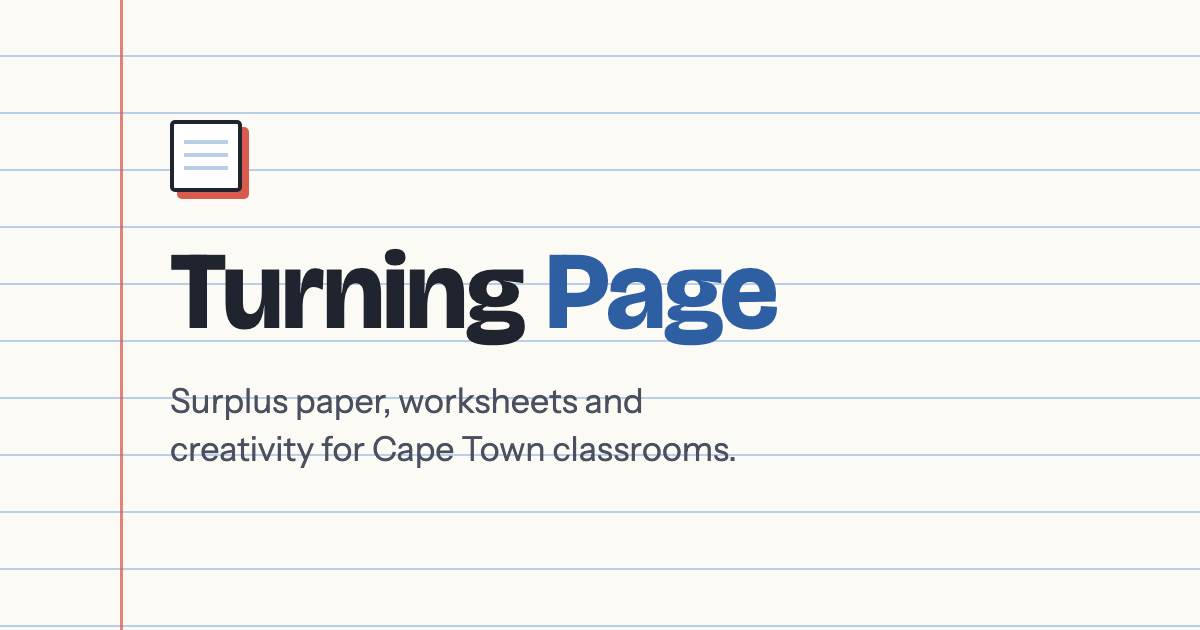
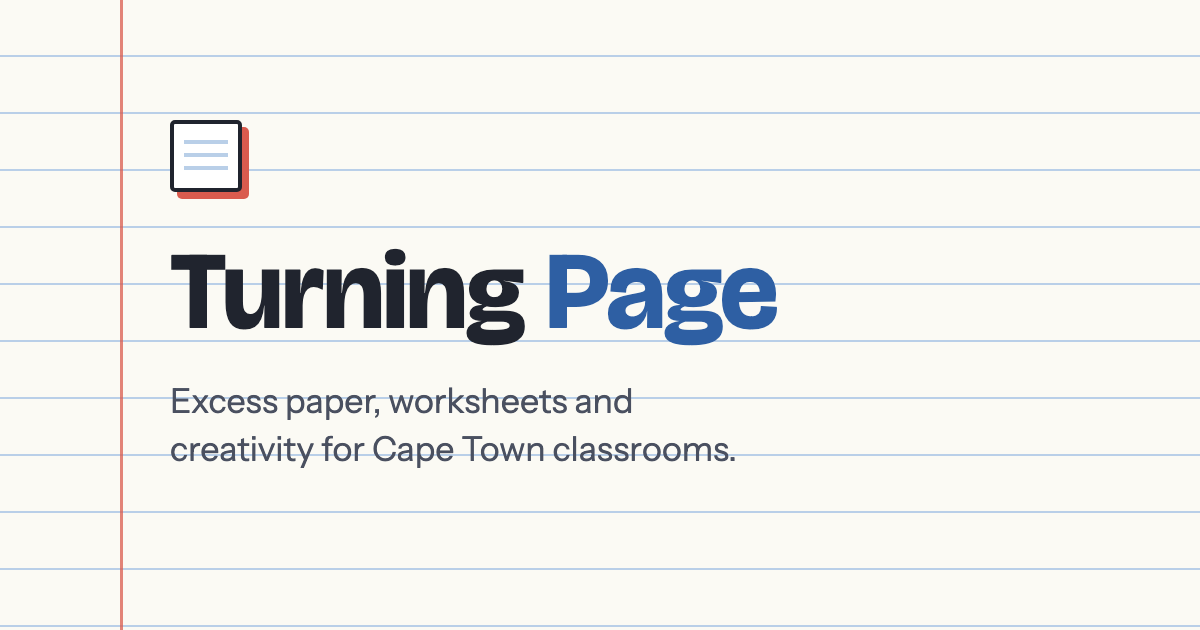
New headshot, humanize copy (remove em dashes), replace 'surplus' with synonyms, tense fixes, partners colon

Changed region(s): [[0.1542, 0.6032, 0.555, 0.6635]]

diff --git a/index.html b/index.html
@@ -4,7 +4,7 @@
 <meta charset="UTF-8">
 <meta name="viewport" content="width=device-width, initial-scale=1.0">
 <title>Turning Page — Paper, worksheets and creativity for Cape Town classrooms</title>
-<meta name="description" content="Student-run Cape Town initiative delivering surplus paper, WorksheetCloud sponsorships and creativity packs to under-resourced schools.">
+<meta name="description" content="Student-run Cape Town initiative delivering spare paper, WorksheetCloud sponsorships and creativity packs to under-resourced schools.">
 <!-- NOTE: replace https://turningpage.co.za with the live domain after deploy — see README -->
 <link rel="canonical" href="https://turningpage.co.za/">
 
@@ -16,14 +16,14 @@
 <meta property="og:type" content="website">
 <meta property="og:site_name" content="Turning Page">
 <meta property="og:title" content="Turning Page — Paper, worksheets and creativity for Cape Town classrooms">
-<meta property="og:description" content="A student-run initiative redirecting clean surplus paper from businesses to under-resourced Cape Town schools, starting with Constantia Primary.">
+<meta property="og:description" content="A student-run initiative redirecting clean excess paper from businesses to under-resourced Cape Town schools, starting with Constantia Primary.">
 <meta property="og:url" content="https://turningpage.co.za/">
 <meta property="og:image" content="https://turningpage.co.za/assets/img/og.png">
 <meta property="og:image:width" content="1200">
 <meta property="og:image:height" content="630">
 <meta name="twitter:card" content="summary_large_image">
 <meta name="twitter:title" content="Turning Page — Paper, worksheets and creativity for Cape Town classrooms">
-<meta name="twitter:description" content="A student-run initiative redirecting clean surplus paper from businesses to under-resourced Cape Town schools, starting with Constantia Primary.">
+<meta name="twitter:description" content="A student-run initiative redirecting clean excess paper from businesses to under-resourced Cape Town schools, starting with Constantia Primary.">
 <meta name="twitter:image" content="https://turningpage.co.za/assets/img/og.png">
 
 <link rel="preload" href="assets/fonts/bricolage-grotesque-latin.woff2" as="font" type="font/woff2" crossorigin>
@@ -33,7 +33,7 @@
   "@context": "https://schema.org",
   "@type": "Organization",
   "name": "Turning Page",
-  "description": "A student-run community initiative delivering surplus paper, WorksheetCloud sponsorships and creativity packs to under-resourced Cape Town schools.",
+  "description": "A student-run community initiative delivering spare paper, WorksheetCloud sponsorships and creativity packs to under-resourced Cape Town schools.",
   "founder": { "@type": "Person", "name": "Carys Morkel" },
   "foundingDate": "2026",
   "areaServed": { "@type": "City", "name": "Cape Town" },
@@ -64,8 +64,8 @@
 <header class="hero" id="top">
   <div class="hero-inner">
     <span class="hero-eyebrow">A student-run initiative · Cape Town</span>
-    <h1>Your surplus paper is a classroom's <em>next lesson</em>.</h1>
-    <p class="lede">We collect clean surplus paper from Cape Town businesses and turn it into more than supplies — bringing paper, worksheets and creativity to under-resourced classrooms, starting with <a href="https://www.constantiaprimary.co.za" target="_blank" rel="noopener">Constantia Primary</a>.</p>
+    <h1>Your excess paper is a classroom's <em>next lesson</em>.</h1>
+    <p class="lede">We collect clean, unused paper from Cape Town businesses and turn it into more than supplies, bringing paper, worksheets and creativity to under-resourced classrooms, starting with <a href="https://www.constantiaprimary.co.za" target="_blank" rel="noopener">Constantia Primary</a>.</p>
     <div class="hero-actions">
       <a class="btn btn-primary" href="#contact">Donate paper</a>
       <a class="btn btn-ghost" href="#story">Read our story</a>
@@ -81,21 +81,21 @@
     <div class="reveal">
       <p class="eyebrow">Our story</p>
       <h2>Two schools, a short distance apart. Two different worlds.</h2>
-      <p>My name is Carys Morkel. I'm 18, in my final year at the American International School of Cape Town, and this project began with a school visit that I haven't been able to stop thinking about.</p>
-      <p>Constantia Primary is a government school just down the road from my own. When I visited, I saw young children going without something as basic as <strong>paper</strong> — a resource I have taken for granted my entire school career. Teachers couldn't print worksheets. Assessments were rationed. Daily lessons were shaped by what the photocopier budget allowed.</p>
-      <p>Meanwhile, businesses across Cape Town discard clean, perfectly usable paper every single week. Turning Page simply connects the two — and I plan to build it into something that keeps running long after I've finished school.</p>
-      <p>Paper was only the beginning — it opened the door to sponsoring WorksheetCloud, the online worksheet programme that helped me through primary school myself.</p>
+      <p>My name is Carys Morkel. I'm 18, in my final year at the American International School of Cape Town, and this project began with a school visit that I hadn't been able to stop thinking about.</p>
+      <p>Constantia Primary is a government school just down the road from my own. When I visited, I saw young children going without something as basic as <strong>paper</strong>, a resource I have taken for granted my entire school career. Teachers couldn't print worksheets. Assessments were rationed. Daily lessons were shaped by what the photocopier budget allowed.</p>
+      <p>Meanwhile, businesses across Cape Town discard clean, perfectly usable paper every single week. Turning Page simply connects the two, and I plan to build it into something that keeps running long after I've finished school.</p>
+      <p>Paper is only the beginning. It has opened the door to sponsoring WorksheetCloud, the online worksheet programme that helped me through primary school myself.</p>
       <p class="story-sign">— Carys</p>
     </div>
     <div class="reveal">
       <blockquote class="pullquote">
-        "Seeing children go without something as basic as paper — a resource I have always taken for granted — was both moving and alarming. I came away wanting to do something practical about it."
+        "Seeing children go without something as basic as paper, a resource I have always taken for granted, was both moving and alarming. I came away wanting to do something practical about it."
         <small>Carys Morkel, founder</small>
       </blockquote>
       <!-- PHOTO SLOT: replace assets/img/story.jpg to change this photo -->
       <figure class="photo-slot photo-portrait reveal">
         <div class="photo-frame">
-          <img src="assets/img/story.jpg" alt="Carys Morkel, founder of Turning Page" width="904" height="1280">
+          <img src="assets/img/story.jpg" alt="Carys Morkel, founder of Turning Page" width="721" height="967">
           <div class="photo-fallback"><span class="logo-mark" aria-hidden="true"></span><span>Photo coming soon</span></div>
         </div>
       </figure>
@@ -107,26 +107,26 @@
 <section class="programmes" id="programmes">
   <div class="wrap">
     <p class="eyebrow reveal">What we do</p>
-    <h2 class="reveal">Three ways we turn surplus into schooling.</h2>
-    <p class="programmes-intro reveal">Everything starts with donated paper — and grows from there into worksheets, homework support and creativity for the classrooms that need it most.</p>
+    <h2 class="reveal">Three ways we turn extra paper into schooling.</h2>
+    <p class="programmes-intro reveal">Everything starts with donated paper and grows from there into worksheets, homework support and creativity for the classrooms that need it most.</p>
     <div class="programmes-grid">
       <div class="programme-card reveal">
         <div class="icon" aria-hidden="true">📄</div>
         <h3>Paper supply</h3>
-        <p>We collect clean surplus paper from businesses — off-cuts, overruns, single-sided misprints, end-of-roll and office surplus — and deliver it directly to classrooms.</p>
+        <p>We collect clean leftover paper from businesses: off-cuts, overruns, single-sided misprints, end-of-roll stock and spare office paper, delivered directly to classrooms.</p>
         <p>Collected fortnightly, it becomes worksheets, assessments and daily lessons at Constantia Primary.</p>
       </div>
       <div class="programme-card reveal">
         <div class="icon" aria-hidden="true">📝</div>
         <h3>WorksheetCloud sponsorship</h3>
-        <p>We fund WorksheetCloud subscriptions — around R400 per grade per year — for the Foundation Phase, Grades 1–3. The Department of Education doesn't fund it; affluent schools pay for it themselves.</p>
-        <p>Every worksheet comes with a memo, so parents can check their children's homework even where their own schooling was cut short — and teachers can spot gaps early.</p>
-        <p class="programme-quote">"WorksheetCloud helped me through primary school — every child deserves the same head start." — Carys</p>
+        <p>We fund WorksheetCloud subscriptions (around R400 per grade per year) for the Foundation Phase, Grades 1–3. The Department of Education doesn't fund it; affluent schools pay for it themselves.</p>
+        <p>Every worksheet comes with a memo, so parents can check their children's homework even where their own schooling was cut short, and teachers can spot gaps early.</p>
+        <p class="programme-quote">"WorksheetCloud helped me through primary school. Every child deserves the same head start." — Carys</p>
       </div>
       <div class="programme-card reveal">
         <div class="icon" aria-hidden="true">🎨</div>
         <h3>Creativity from off-cuts</h3>
-        <p>Scrap paper too small for the photocopier becomes art supply packs — weaving, coasters, placemats, painting and drawing — building the fine motor skills young learners need.</p>
+        <p>Scrap paper too small for the photocopier becomes art supply packs for weaving, coasters, placemats, painting and drawing, building the fine motor skills young learners need.</p>
         <p>We're working toward publishing a school reader and a Turning Page activity book, so the ideas travel further than the packs do.</p>
       </div>
     </div>
@@ -137,9 +137,9 @@
 <section class="impact-strip" id="impact" aria-label="Impact">
   <div class="wrap">
     <ul class="impact-points">
-      <li class="reveal"><strong>Aiding teachers</strong> Paper for worksheets, assessments and daily lessons — so teaching isn't shaped by supply.</li>
+      <li class="reveal"><strong>Aiding teachers</strong> Paper for worksheets, assessments and daily lessons, so teaching isn't shaped by supply.</li>
       <li class="reveal"><strong>Relieving families</strong> Essential resources at no cost to parents, in a community where every rand counts.</li>
-      <li class="reveal"><strong>Sustaining education</strong> Reliable support for quality schooling — fortnight after fortnight.</li>
+      <li class="reveal"><strong>Sustaining education</strong> Reliable support for quality schooling, fortnight after fortnight.</li>
     </ul>
   </div>
 </section>
@@ -156,13 +156,13 @@
         <li>Single-sided misprints <span>— one clean side is all a worksheet needs</span></li>
         <li>End-of-roll stock <span>— remnants too small for commercial use</span></li>
         <li>Discontinued or aged stock <span>— clean paper past its shelf appeal</span></li>
-        <li>Office surplus <span>— unused reams, notepads and copy paper</span></li>
+        <li>Spare office stock <span>— unused reams, notepads and copy paper</span></li>
       </ul>
     </div>
     <div class="reveal">
       <div class="accept-note">
         <h3>For print businesses</h3>
-        <p>The paper your operation writes off as waste is exactly what a classroom is missing. If your bindery or guillotine produces regular clean off-cuts, we can set up a standing fortnightly collection — zero admin for your team.</p>
+        <p>The paper your operation writes off as waste is exactly what a classroom is missing. If your bindery or guillotine produces regular clean off-cuts, we can set up a standing fortnightly collection with zero admin for your team.</p>
         <p>Participating schools provide Section 18A donation certificates, and donations count toward B-BBEE scorecard ratings.</p>
         <p>We collect at a time that suits you, at no cost.</p>
       </div>
@@ -179,7 +179,7 @@
       <div class="step reveal">
         <div class="step-num">Step one</div>
         <h3>Get in touch</h3>
-        <p>Email us with roughly what you have — a box of misprints or a pallet of overruns, everything helps.</p>
+        <p>Email us with roughly what you have. A box of misprints or a pallet of overruns, everything helps.</p>
       </div>
       <div class="step reveal">
         <div class="step-num">Step two</div>
@@ -189,7 +189,7 @@
       <div class="step reveal">
         <div class="step-num">Step three</div>
         <h3>Paper reaches classrooms</h3>
-        <p>Your donation goes directly to Constantia Primary — and, as we grow, to more under-resourced schools across Cape Town.</p>
+        <p>Your donation goes directly to Constantia Primary and, as we grow, to more under-resourced schools across Cape Town.</p>
       </div>
     </div>
   </div>
@@ -205,7 +205,7 @@
       <li>Publishing a school reader and arts-and-crafts activity book</li>
       <li>Registering as a non-profit company (NPC)</li>
     </ul>
-    <p class="road-note reveal">These are ambitions, not promises — but every collection brings them closer.</p>
+    <p class="road-note reveal">These are ambitions, not promises, but every collection brings them closer.</p>
   </div>
 </section>
 
@@ -213,7 +213,7 @@
 <section class="contact" id="contact">
   <div class="wrap">
     <div class="contact-card reveal">
-      <h2>Have surplus paper — or a soft spot for worksheets?</h2>
+      <h2>Have spare paper or a soft spot for worksheets?</h2>
       <p>Whether you can offer a single box of off-cuts, a standing fortnightly collection, or sponsorship toward a grade's WorksheetCloud subscription, one email is all it takes to put resources into a classroom that currently has almost none.</p>
       <a class="btn btn-primary contact-email" href="mailto:carysmorkel@gmail.com?subject=Paper%20donation%20%E2%80%94%20Turning%20Page">carysmorkel@gmail.com</a>
     </div>
@@ -224,7 +224,7 @@
 <section class="partners" aria-label="Partners">
   <div class="wrap">
     <p class="eyebrow reveal">Partners</p>
-    <h2 class="reveal">The businesses turning pages with us.</h2>
+    <h2 class="reveal">The businesses turning pages with us:</h2>
     <div class="partners-row">
       <div class="partner-tile reveal"><img src="assets/img/gerber-paper-logo.png" alt="Gerber Paper" width="500" height="137"></div>
       <div class="partner-tile reveal"><img src="assets/img/papercor-logo.jpg" alt="Papercor" width="567" height="199"></div>

diff --git a/js/main.js b/js/main.js
@@ -10,7 +10,7 @@ if (typeof KG_COLLECTED === 'number') {
   band.innerHTML =
     '<div class="wrap">' +
     '<p class="tally-num"><span class="tally-count">0</span>&nbsp;kg</p>' +
-    '<p class="tally-label">of surplus paper collected so far</p>' +
+    '<p class="tally-label">of paper collected so far</p>' +
     '</div>';
   document.getElementById('story').insertAdjacentElement('afterend', band);
 

diff --git a/assets/img/og-source.html b/assets/img/og-source.html
@@ -45,7 +45,7 @@
   <div class="content">
     <div class="mark"></div>
     <h1>Turning <em>Page</em></h1>
-    <p>Surplus paper, worksheets and creativity for Cape Town classrooms.</p>
+    <p>Excess paper, worksheets and creativity for Cape Town classrooms.</p>
   </div>
 </body>
 </html>
